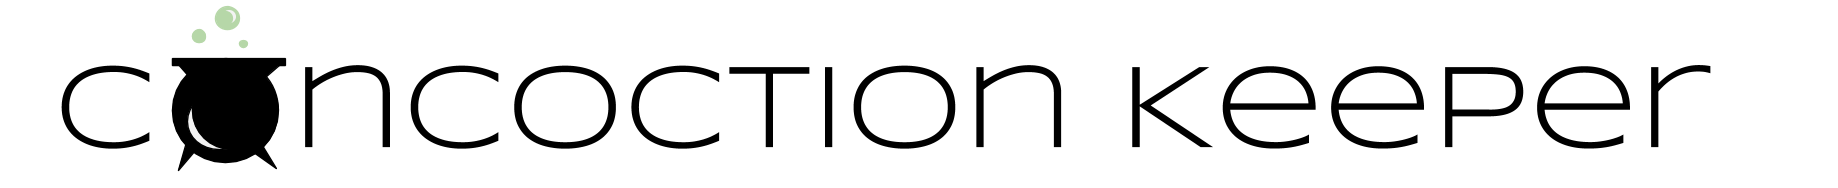
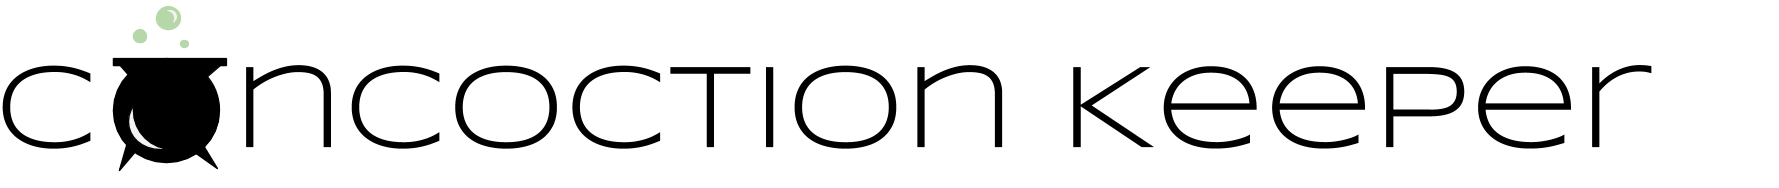
added CSS for header/logout, search/add concoction, list of recipes

Changed region(s): [[0.0, 0.2926, 0.9275, 0.9043], [0.0618, 0.0266, 0.1546, 0.2394]]

diff --git a/app/views/_5_view_concoction.blade.php b/app/views/_5_view_concoction.blade.php
@@ -1,16 +1,22 @@
 @extends('_3_action_bar')
 
 @section('main_content')
-	<div>
-		<label>All other concoctions</label>
-		<div>
-			<?php
-				foreach ($concoctions as $concoction){
-					echo "<a href='/view-concoction/" . $concoction->id . "'>" . $concoction->title . "</a><br>";
-				}
-			?>
-		</div>
-		@yield('view_concoction_content')
-
+	<br>
+	<div class="container">
+		<div class="row">
+			<div class="col-lg-3 col-md-2 sidebar">
+		    	<ul class="nav nav-sidebar">
+		    		@foreach ($concoctions as $concoction)
+		    			<?php echo 
+		    				"<li><a href='/view-concoction/" . 	$concoction->id . "'>" . 
+		    													$concoction->title . "</a></li>";
+		    			?>
+					@endforeach
+		        </ul>
+		    </div>
+		    <div class="col-md-6 container">
+		    	@yield('view_concoction_content')
+		    </div>
+	    </div>
 	</div>
 @stop

diff --git a/app/views/_3_action_bar.blade.php b/app/views/_3_action_bar.blade.php
@@ -1,13 +1,18 @@
 @extends('_2_logout_bar')
 
 @section('content')
-  <div>Action bar
-  	<a href='/add-concoction'>Add concoction</a>
-
-	{{ Form::open(array('url'=>'/search-keeper')) }}
-	{{ Form::text('query')}}
-	{{ Form::submit('Search!') }}
-	{{ Form::close() }}
-  </div>
+	<div class="container">
+		<div>
+			
+	  		<div class="pull-right col-md-6">
+	  			{{ Form::open(array('url'=>'/search-keeper')) }}
+	  			{{ Form::text('query')}}
+				{{ Form::submit('Search!', array("class"=>"btn btn-sm btn-primary")) }}
+				{{ Form::close() }}
+	  		</div>
+	  		
+			<a class="col-md-4 btn btn-sm btn-success" href='/add-concoction'>Add concoction</a>
+	    </div>
+	</div>
   @yield('main_content')
 @stop

diff --git a/app/views/_2_logout_bar.blade.php b/app/views/_2_logout_bar.blade.php
@@ -1,8 +1,18 @@
 @extends('_1_base_view')
 
 @section('body')
-	<a href='/'><img src='/images/header.png' height=75></a>
 
-  	<a href='/log-out'>Logout</a>
+	<div class="container">
+		<div class="page-header" role="navigation">
+	  		<ul class="nav nav-pills pull-right">
+	  			<li>
+	  				<a href="/log-out">Log out</a>
+	  			</li>
+	  		</ul>
+			<h3><a href='/'><img src='/images/header.png' width=400></h3>
+	    </div>
+	</div>
+
   	@yield('content')
+
 @stop

diff --git a/app/views/_1_base_view.blade.php b/app/views/_1_base_view.blade.php
@@ -7,7 +7,6 @@
 	{{ HTML::style('/packages/bootstrap-3.2.0-dist/css/starter-template.css'); }}
 </head>
 <body>
-
   @yield('body')
 
   <!-- jQuery (necessary for Bootstrap's JavaScript plugins) -->
